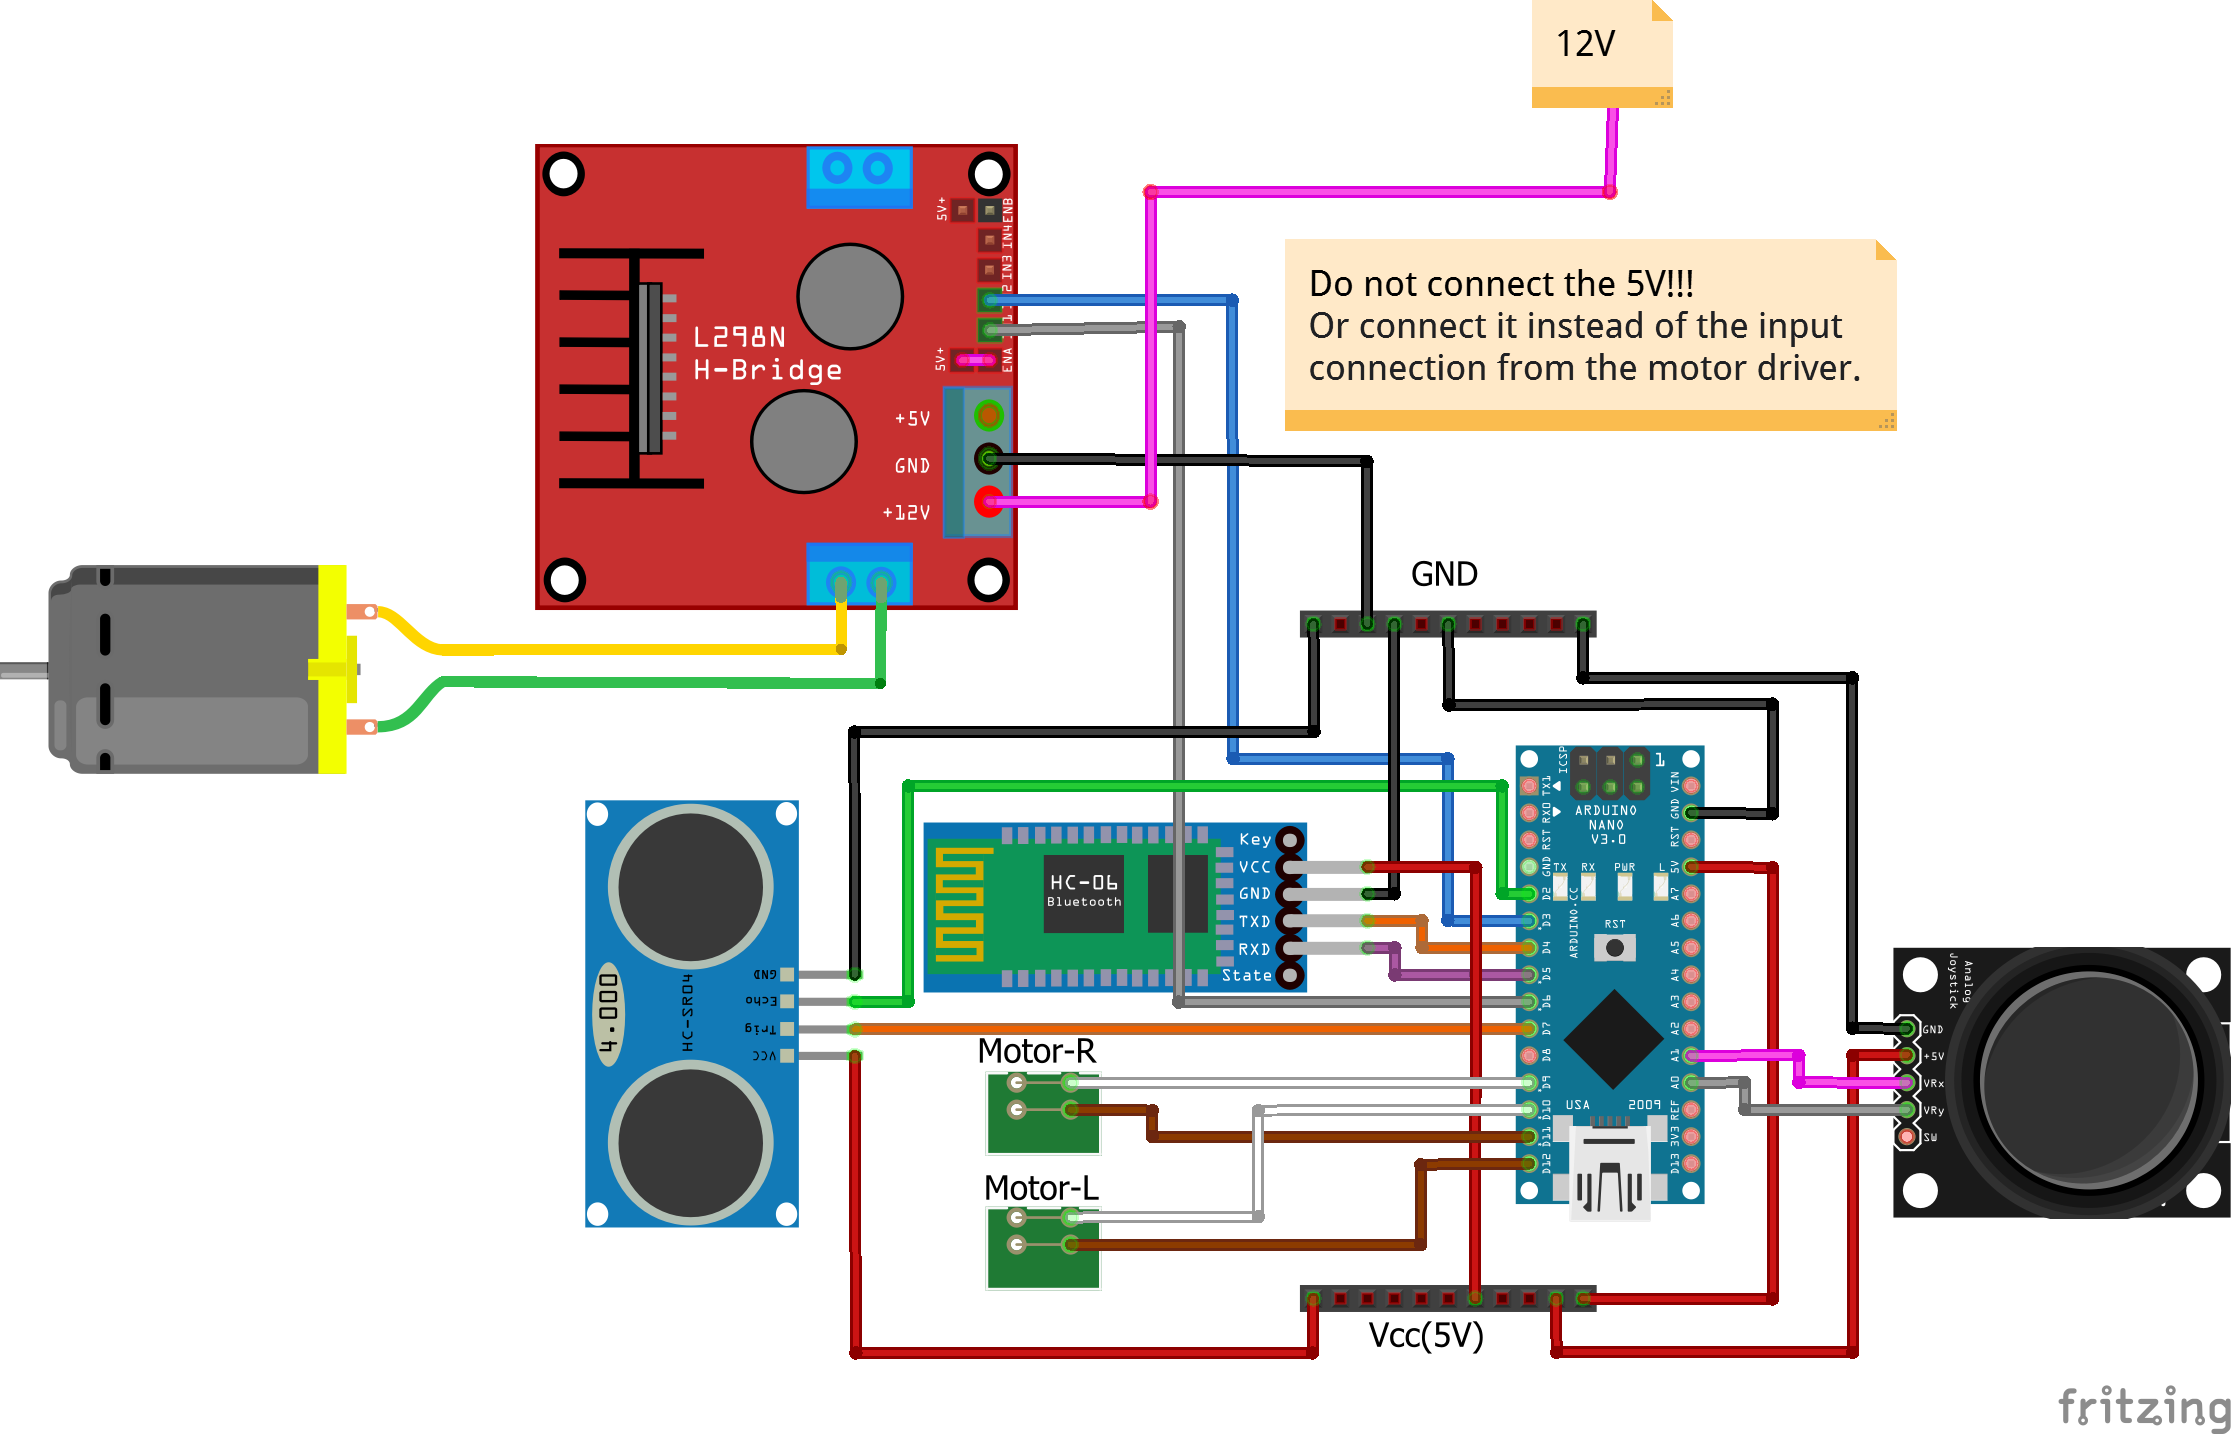
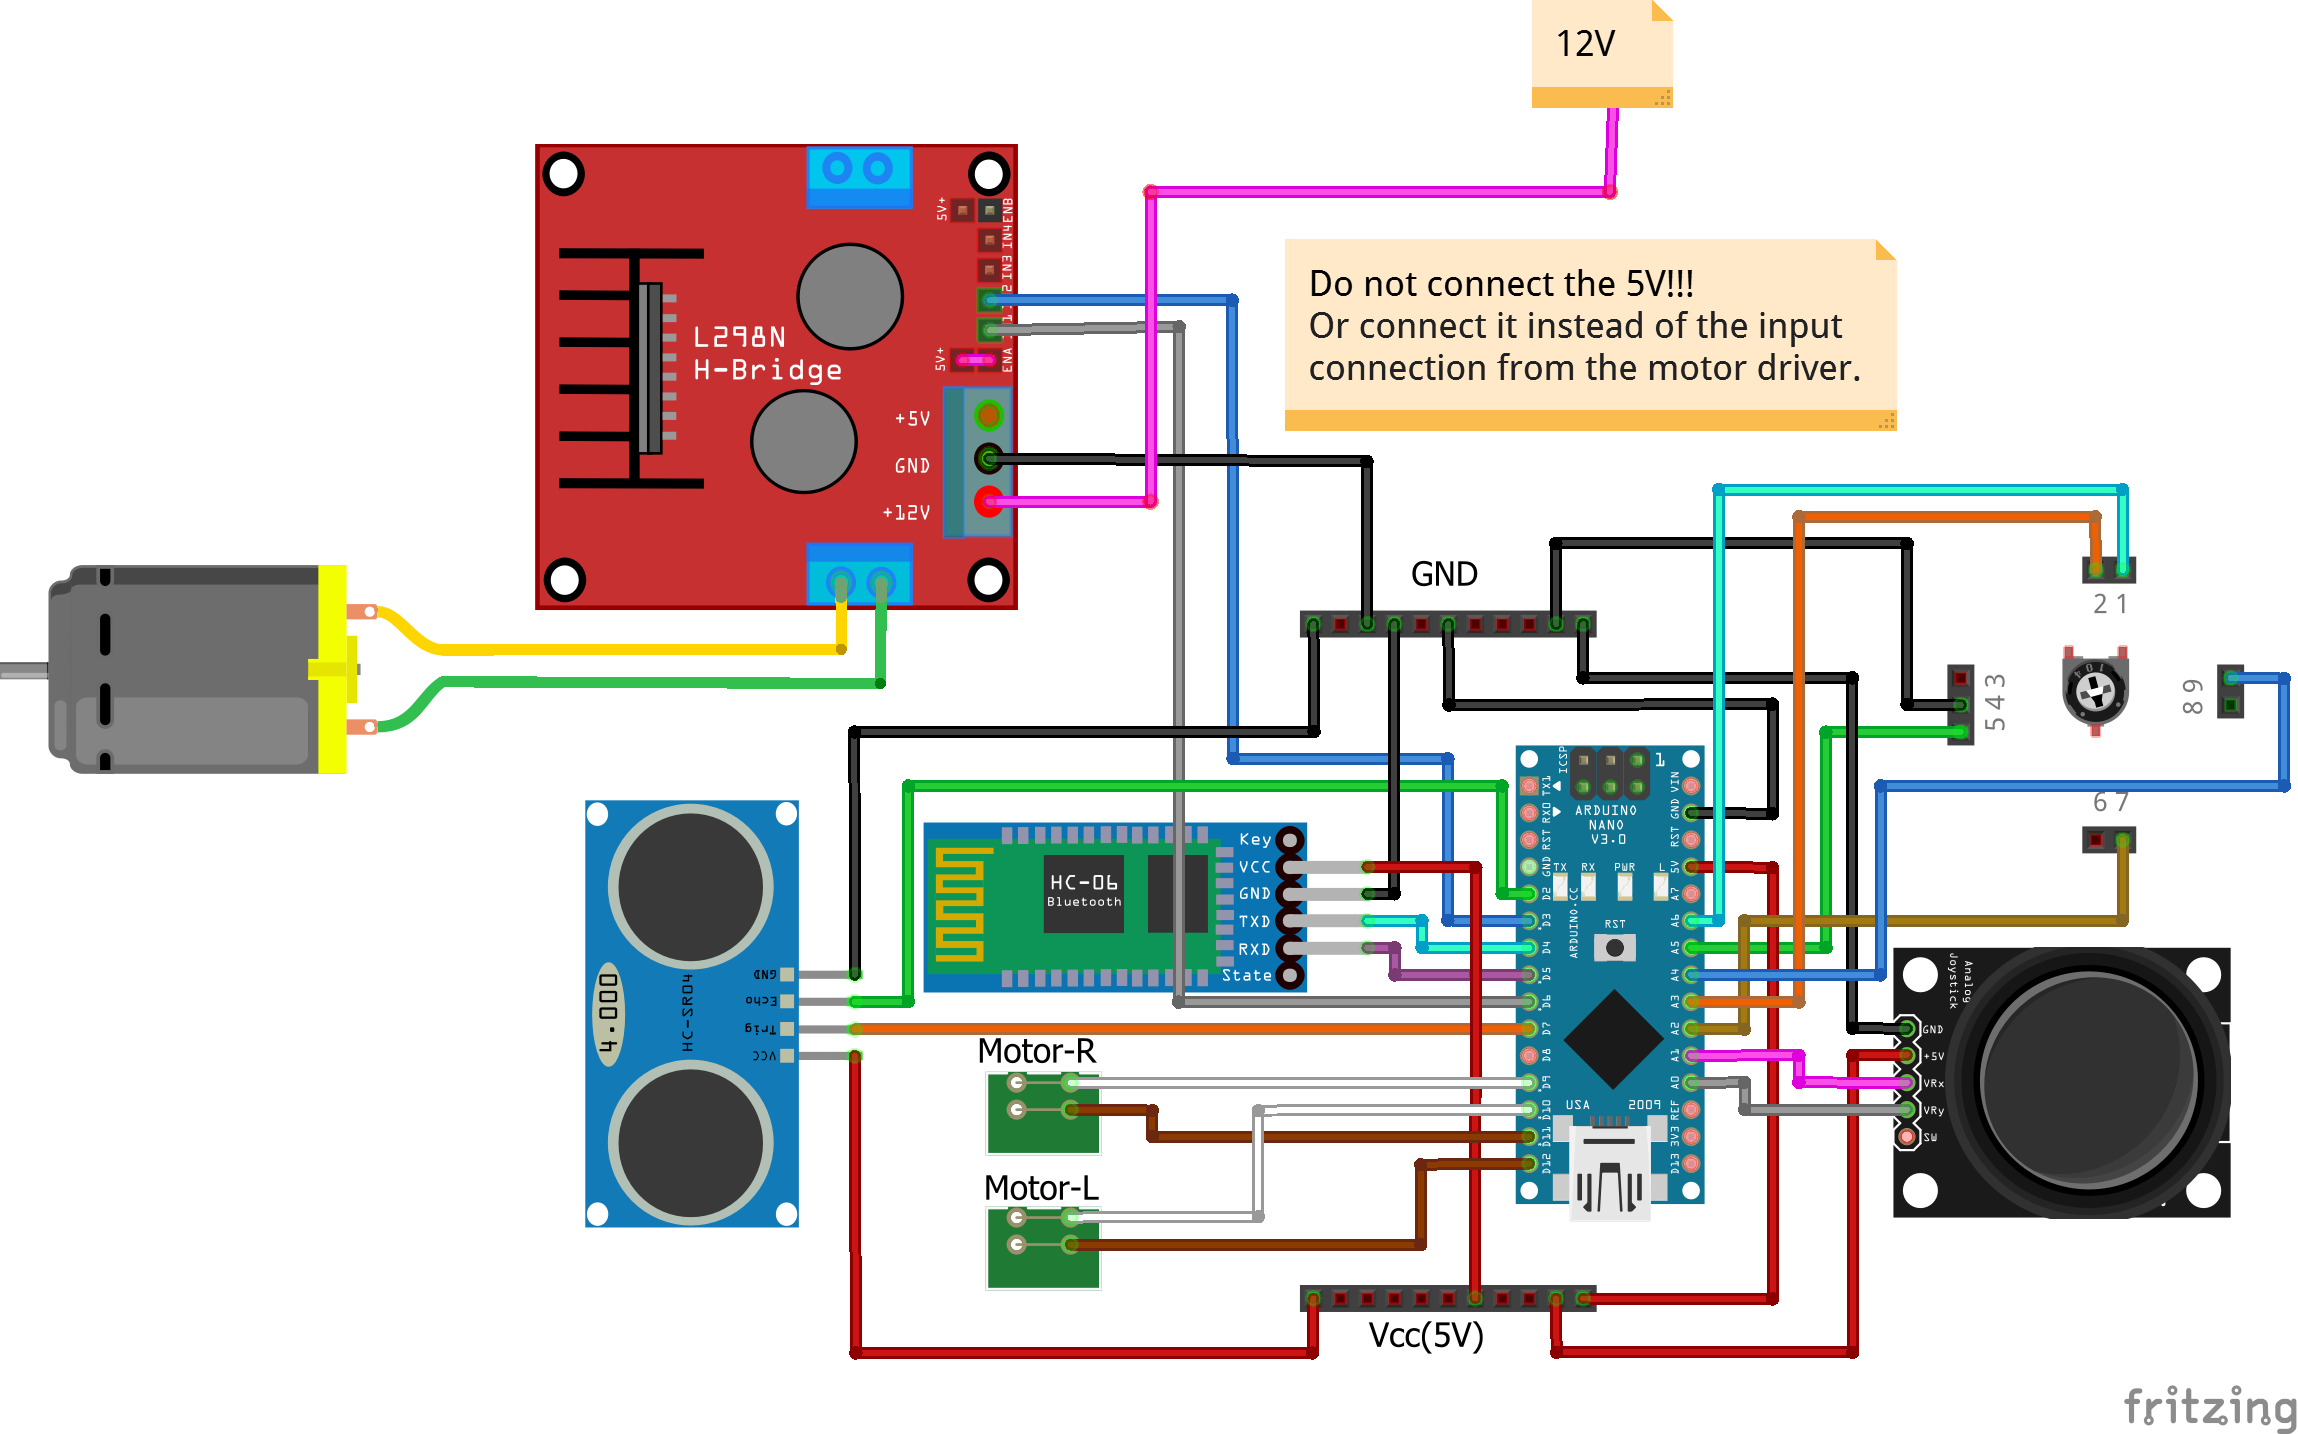
- Go Forward ability.  - Faster stop.

diff --git a/WagonControl/Config.h b/WagonControl/Config.h
@@ -6,7 +6,7 @@
 #define eSMALL_JOYSTICK 3
 // end of constance 
 
-#define WC_CONTROLED_BY  eSMALL_JOYSTICK     // eJOYSTICK or eBLUETOOTH
+#define WC_CONTROLED_BY  eSMALL_JOYSTICK     // eJOYSTICK or eBLUETOOTH or eSMALL_JOYSTICK
 
 #define DEBUG 0  // for printing debug information
 
@@ -15,8 +15,12 @@
 #define SMALL_JOYSTICK_DOWN_PIN     A3
 #define SMALL_JOYSTICK_LEFT_PIN     A4
 #define SMALL_JOYSTICK_RIGHT_PIN    A5
-#define SMALL_JOYSTICK_PUSH_PIN     A6
+#define SMALL_JOYSTICK_PUSH_PIN     8
 
+#define SMALL_JOYSTICK_IDEL_TIME_TO_RETURN_TO_SLOW_mS 5000
+
+#define SMALL_JOYSTICK_PUSH_TIME_TO_GO_FROWARD_mS 2000
+#define SMALL_JOYSTICK_GO_FORWARD_SPEED 300 // upto 1000
 
 #define SMALL_JOYSTICK_LOOP_DELAY_mS 50
 
@@ -32,8 +36,8 @@
 #define BRAKE_OPEN_PIN 3
 #define BRAKE_CLOSE_PIN 6
 
-#define BRAKE_OPEN_DURATION_mS  2000
-#define BRAKE_CLOSE_DURATION_mS  2000
+#define BRAKE_OPEN_DURATION_mS  0
+#define BRAKE_CLOSE_DURATION_mS  0
 
 // ######### Ultrasonic sensor configuration: #########
 

diff --git a/WagonControl/Small_Joystick.cpp b/WagonControl/Small_Joystick.cpp
@@ -1,4 +1,5 @@
 #include "Arduino.h"
+#include "Config.h"
 #include "Small_Joystick.h"
 
 Small_Joystick::Small_Joystick(int pinPush, int pinUp, int pinDown, int pinLeft, int pinRight)
@@ -60,8 +61,23 @@ void Small_Joystick::update()
 
 
   if (_prevStatus == status) {
-    _status = status;
+    if (_status != status) {
+      long diff = millis() - _tic;
+      if ( (_status == enPush) && (status == enNONE) && (diff > SMALL_JOYSTICK_PUSH_TIME_TO_GO_FROWARD_mS)) {
+        _isGoingForward = 1;
+      }
+      else{
+        _isGoingForward = 0;
+        _speed = enSLOW;
+      }
+      if ( (_status == enNONE) && (diff > SMALL_JOYSTICK_IDEL_TIME_TO_RETURN_TO_SLOW_mS) ) {
+        _speed = enSLOW;
+      }
+      _status = status;
+      _tic = millis();
+    }
   }
   _prevStatus = status;
+
 }
 

diff --git a/WagonControl/Small_Joystick.h b/WagonControl/Small_Joystick.h
@@ -31,6 +31,7 @@ class Small_Joystick
     void update();
     e_status getStatus() { return _status; }
     e_speed getSpeed() { return _speed; }
+    int isGoingForward() { return _isGoingForward; }
   private:
     e_status _prevStatus = enNONE;
     e_status _status = enNONE;
@@ -40,7 +41,9 @@ class Small_Joystick
     int _pinDown;
     int _pinLeft;
     int _pinRight;
+    int _isGoingForward = 0;
     e_speed _speed = enSLOW;
+    unsigned long _tic = 0;
 };
 
 #endif

diff --git a/WagonControl/WC_Small_Joystick.cpp b/WagonControl/WC_Small_Joystick.cpp
@@ -71,6 +71,11 @@ void wc_small_joystick_loop() {
     speed_l = 0;
   }
 
+  if (small_joystick.isGoingForward()){
+    speed_r = SMALL_JOYSTICK_GO_FORWARD_SPEED;
+    speed_l = SMALL_JOYSTICK_GO_FORWARD_SPEED;
+  }
+  
   wcMovement.move(speed_r, speed_l);
 
   delay(SMALL_JOYSTICK_LOOP_DELAY_mS);

diff --git a/WagonControl/Motor.cpp b/WagonControl/Motor.cpp
@@ -37,6 +37,12 @@ int Motor::setSpeed(int speed)
   int dir;
   int current_speed = _last_speed;
 
+  if (speed == 0) {
+    analogWrite(_pwmPin, 0);
+    _last_speed = 0;
+    return 0;
+  }
+  
   if (speed>0) {
     speed -= speed % SPEED_RESOLUTION;
   } else{
